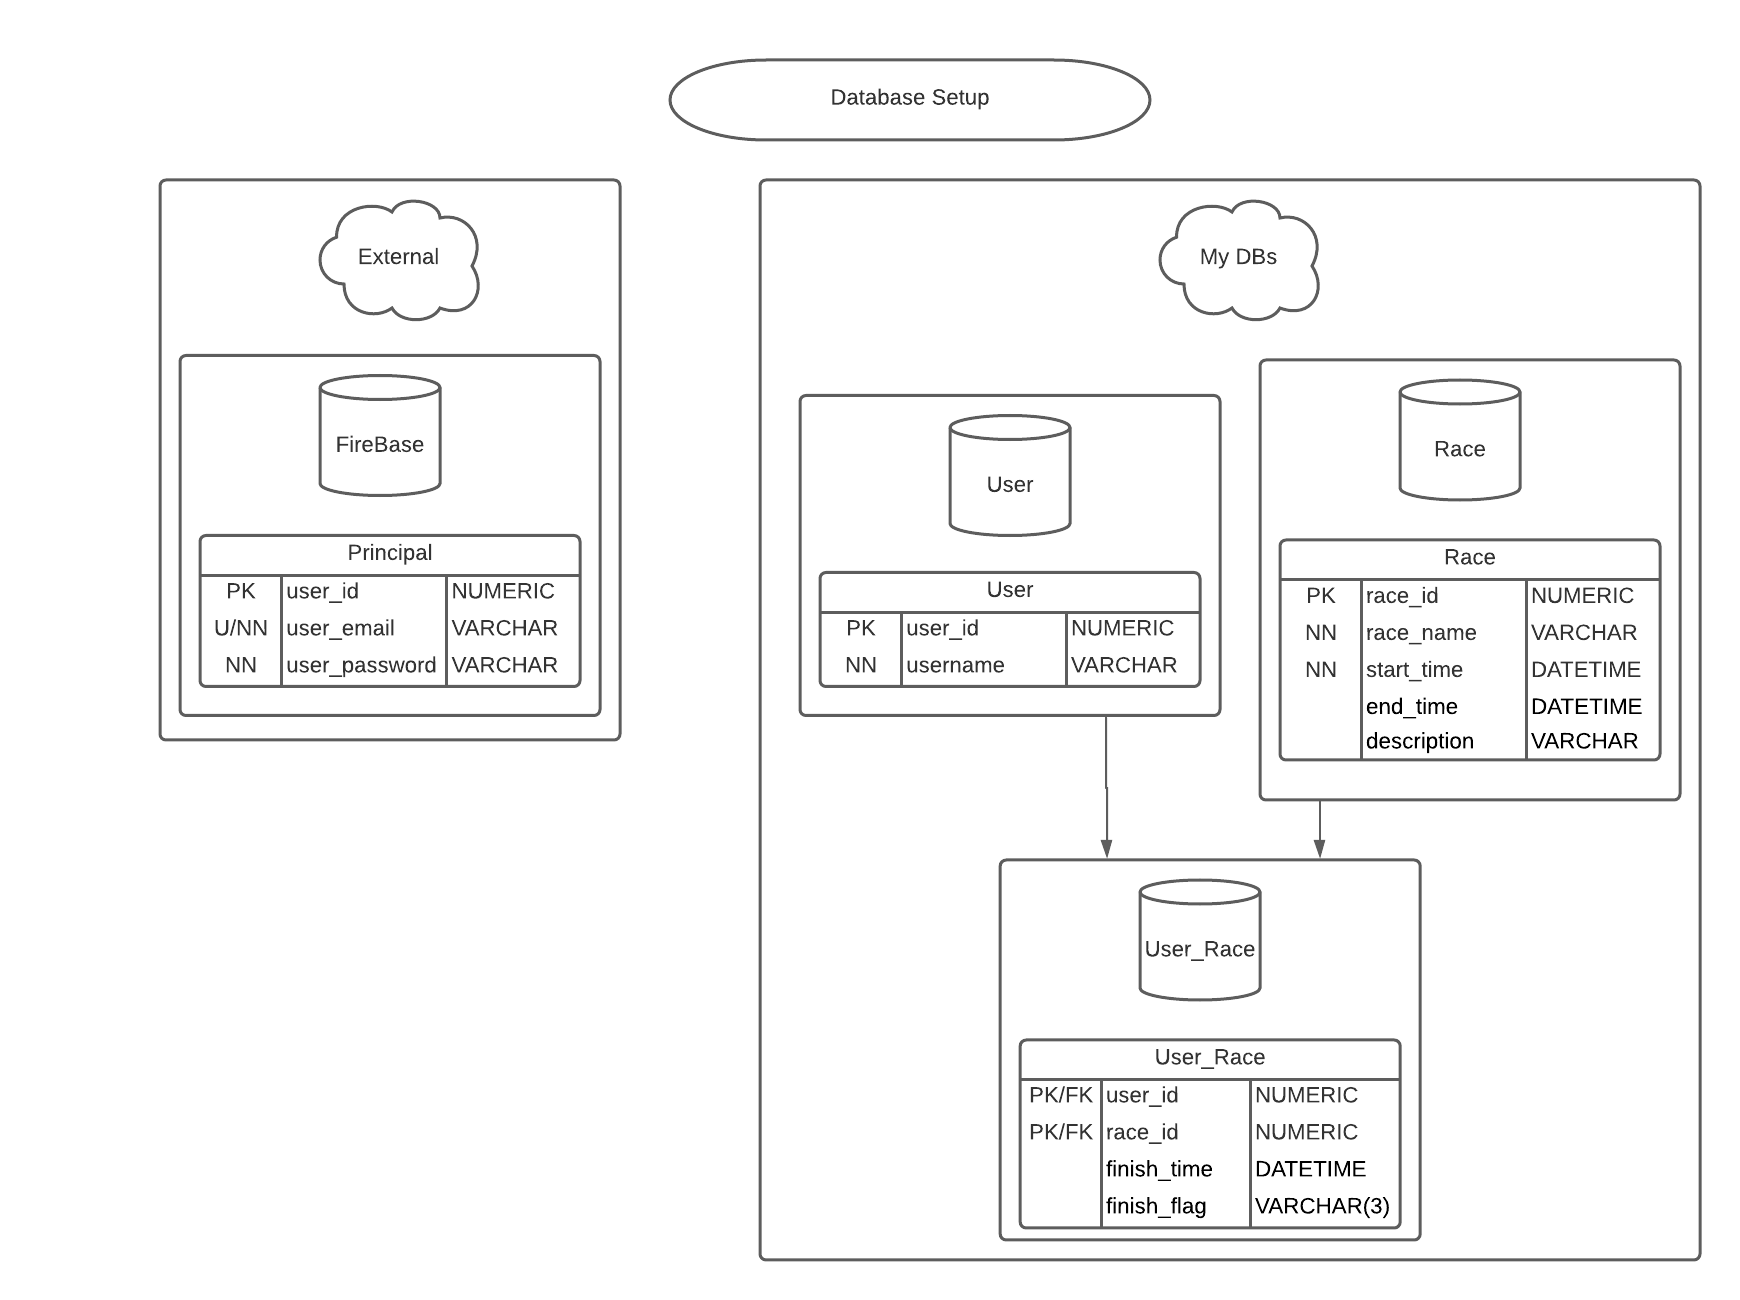
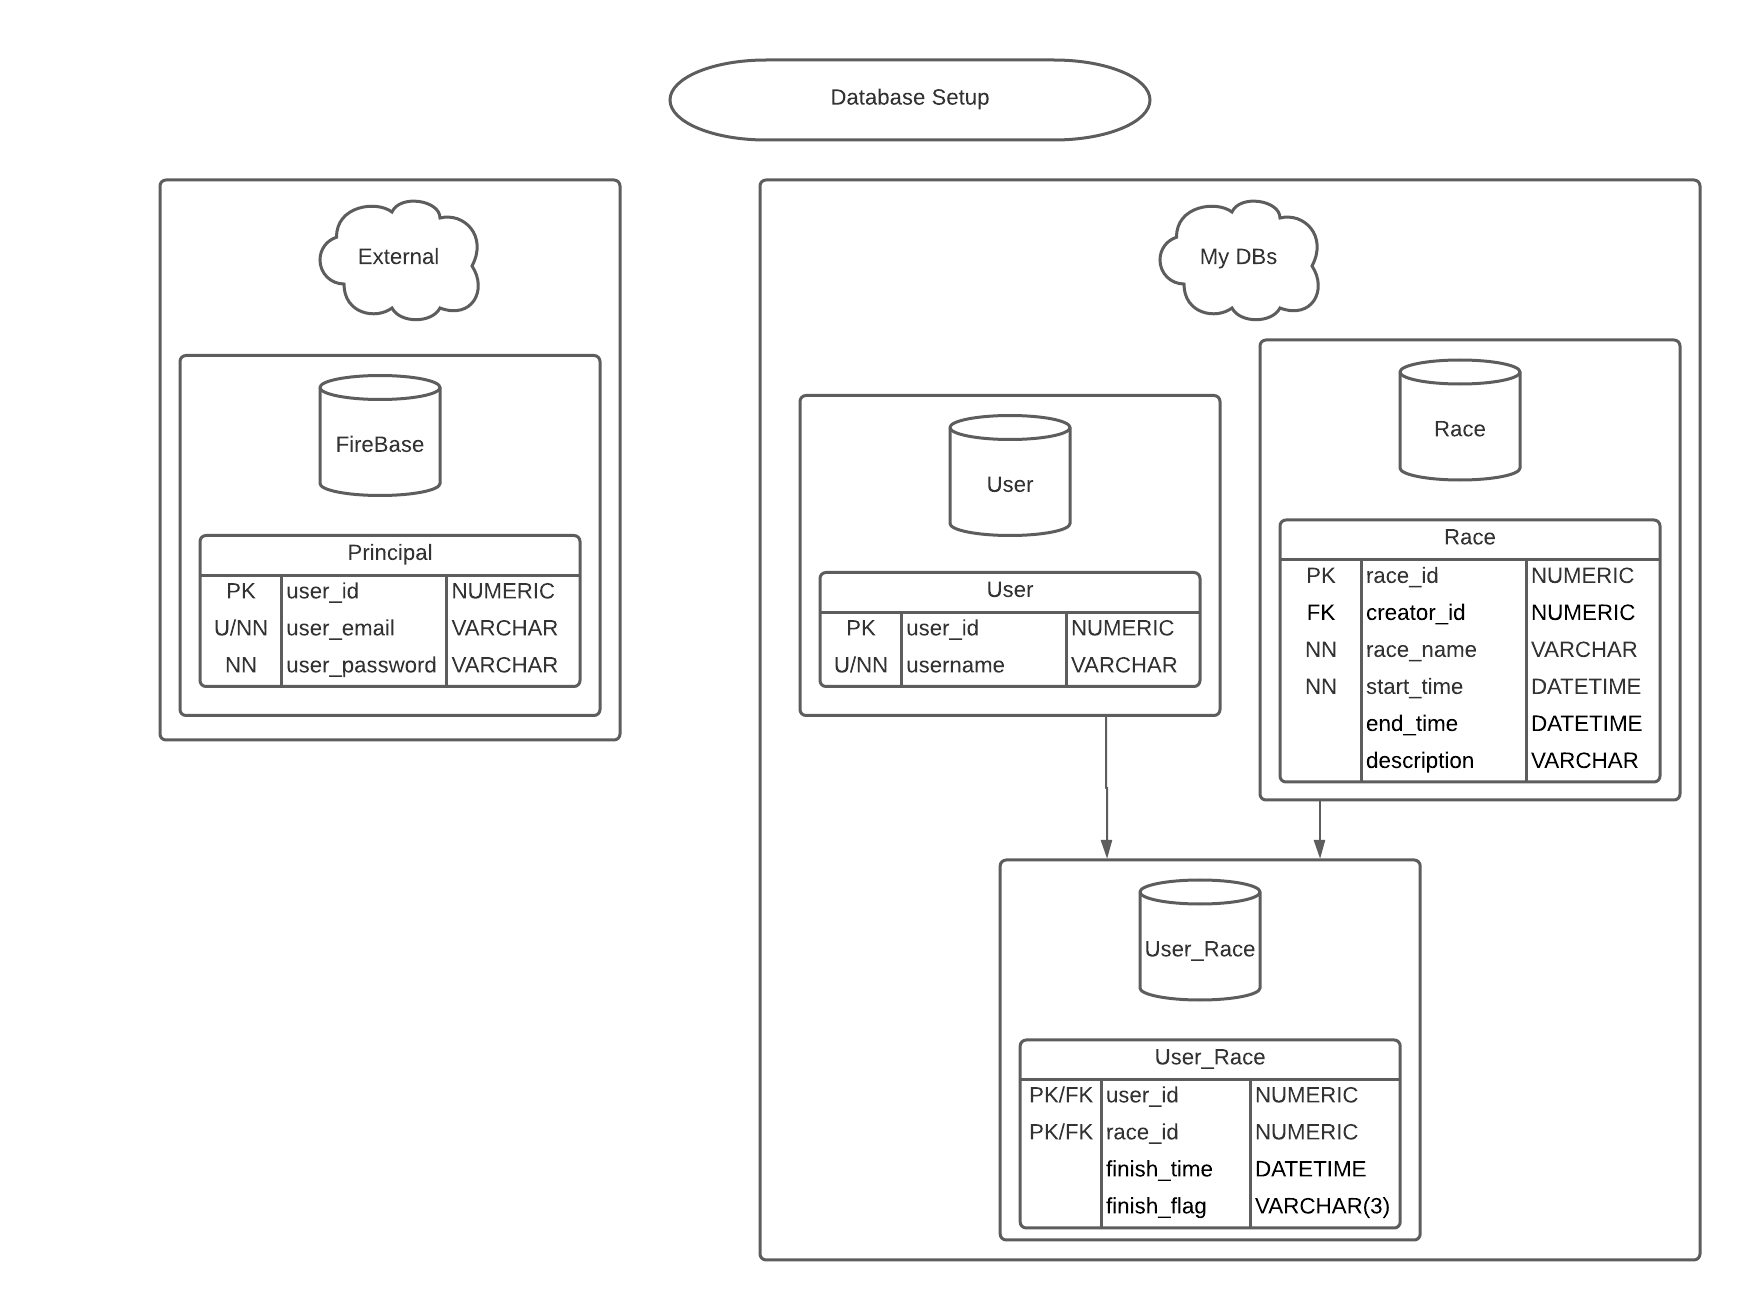
integrated DB-config image into readme

Changed region(s): [[0.7138, 0.2462, 0.9621, 0.6154], [0.4655, 0.4923, 0.5276, 0.5231]]

diff --git a/README.MD b/README.MD
@@ -26,17 +26,7 @@ Running Instructions
 -------------------------
 Database Structure
 -------------------------
-<h3>Firebase</h3>
-<h5>Principal:</h5>
-- user_id PRIMARY KEY
-- user_email
-- user_password
-
-<h5>Notes:</h5>
-- used for authentication
-- encrypted principal object will be taken in as JWT from firebase and must be used with all requests to API!
--------------------------
-
+![Database Diagram](https://github.com/andrewaslakson1/MicroService_Test_API/blob/main/src/main/resources/MicroService_Test_API_DB_Config.png?raw=true)
 
 -------------------------
 Production History
